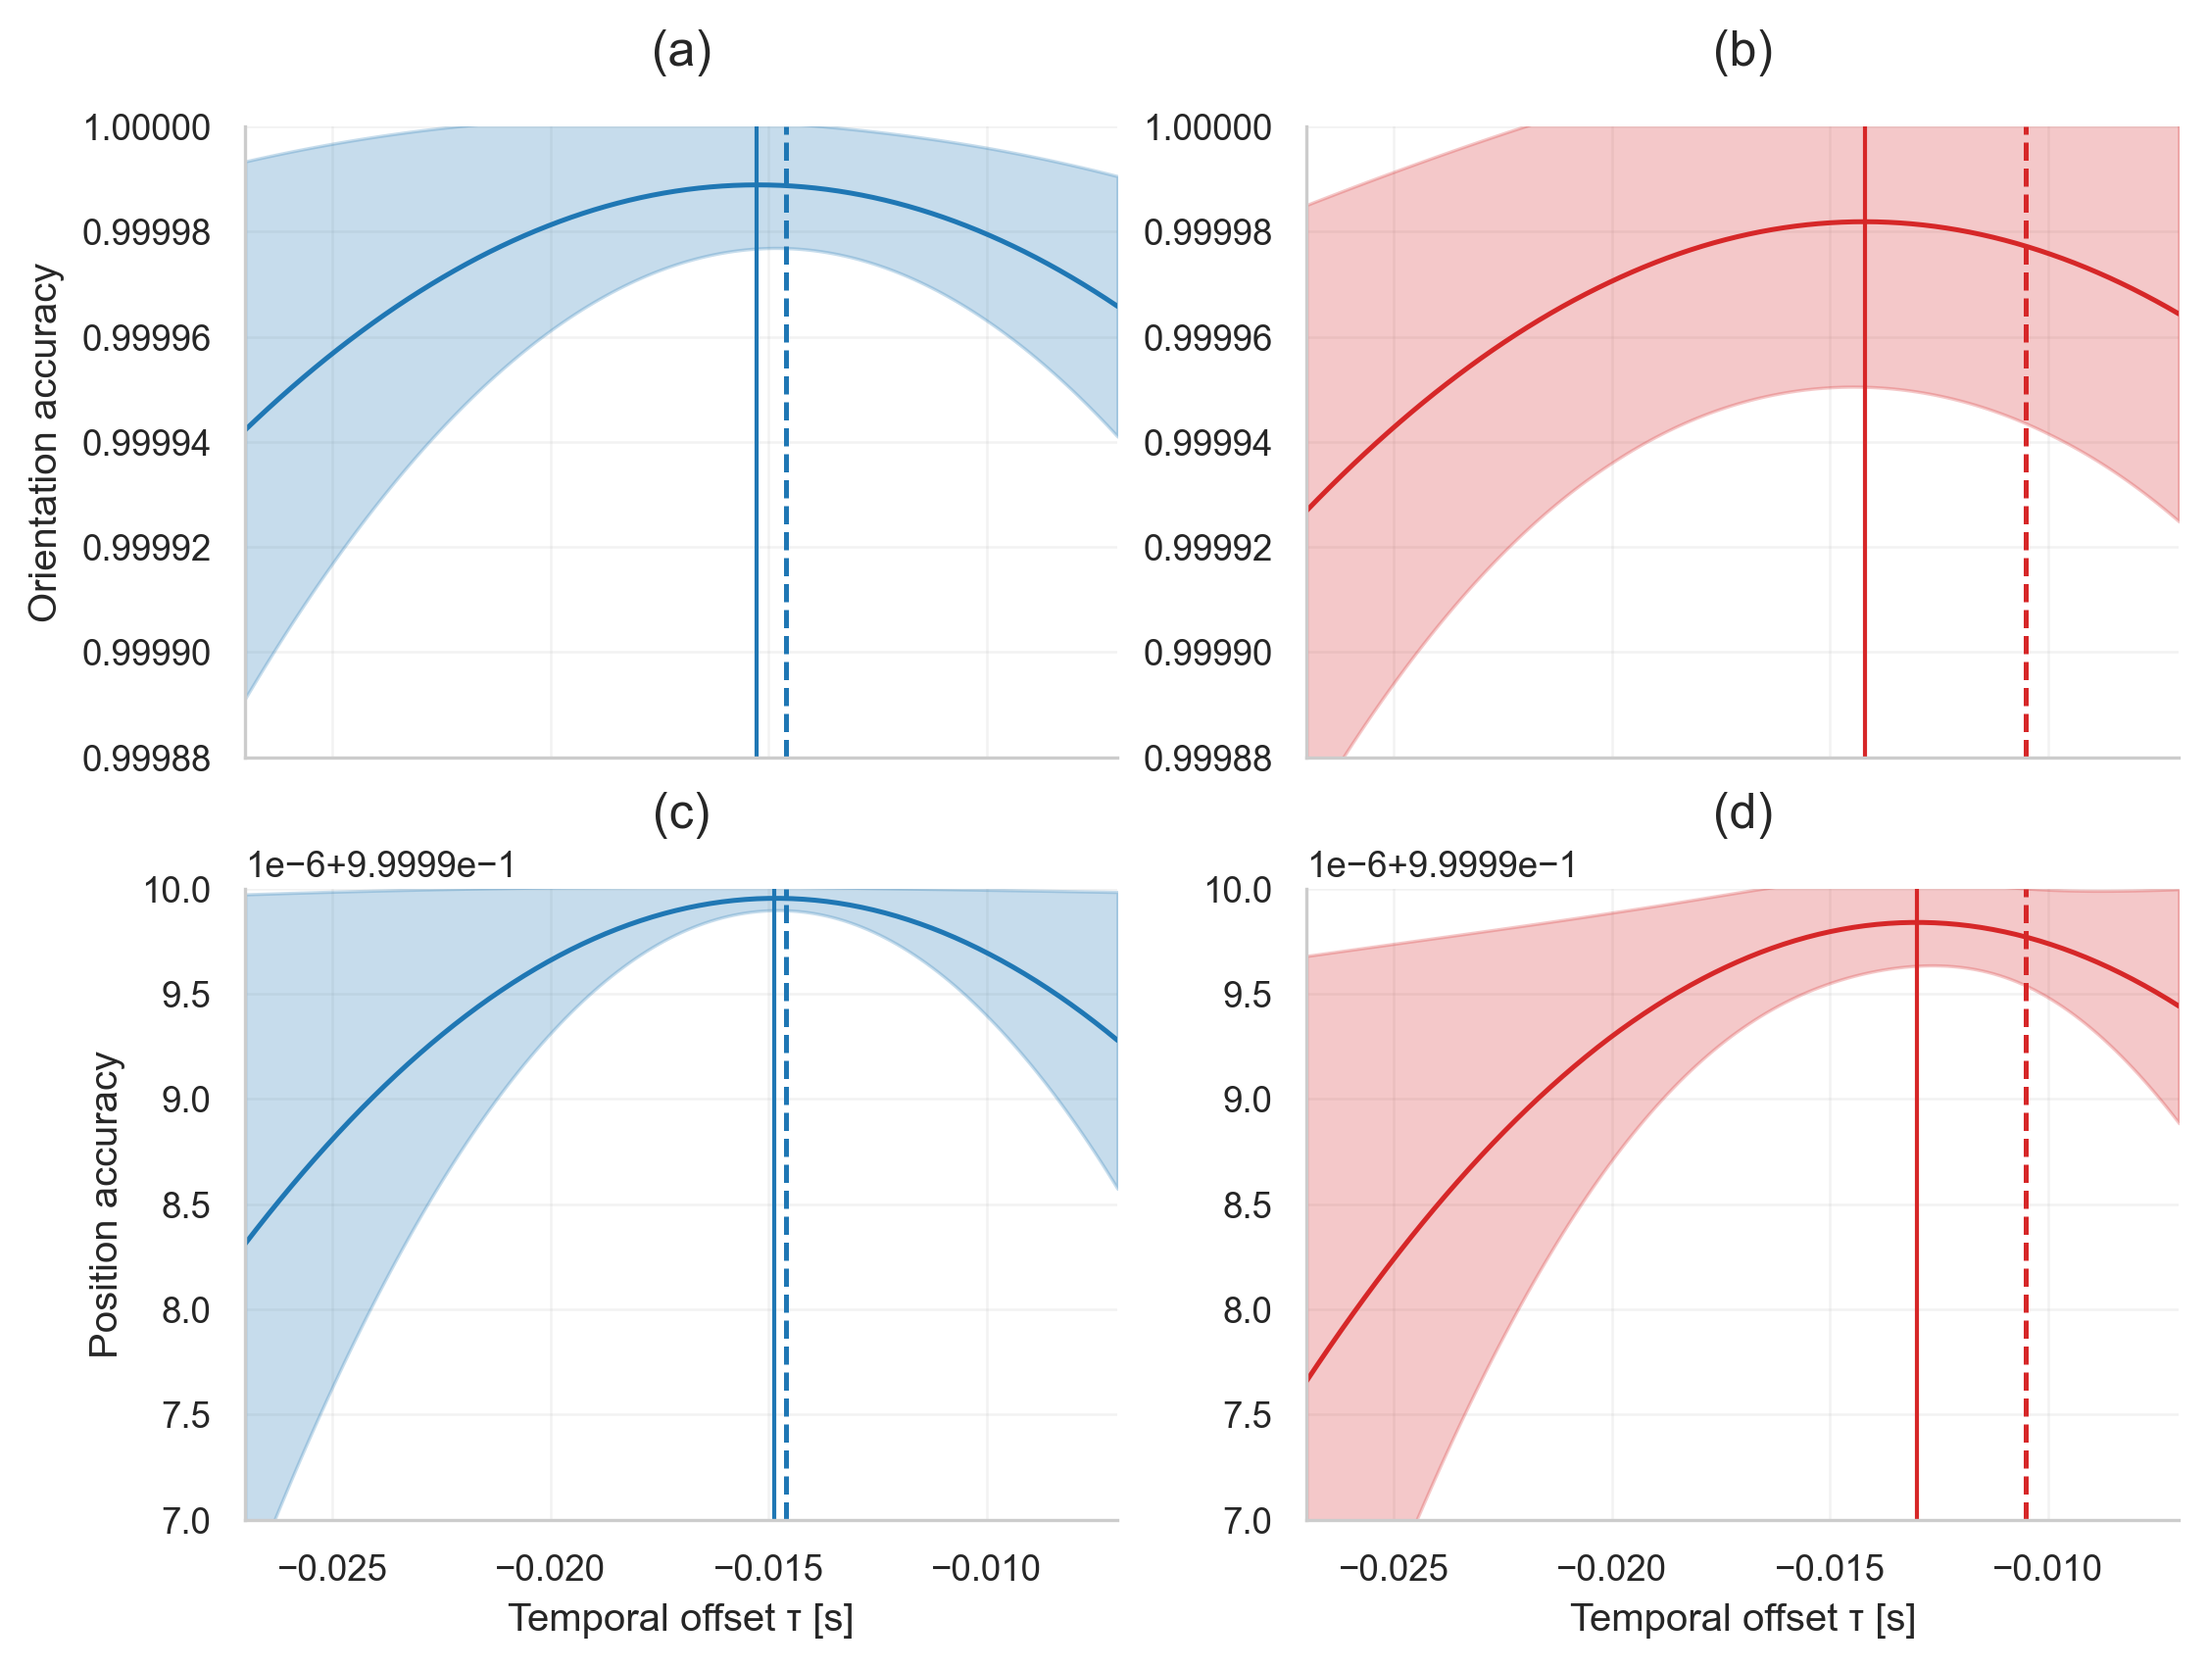
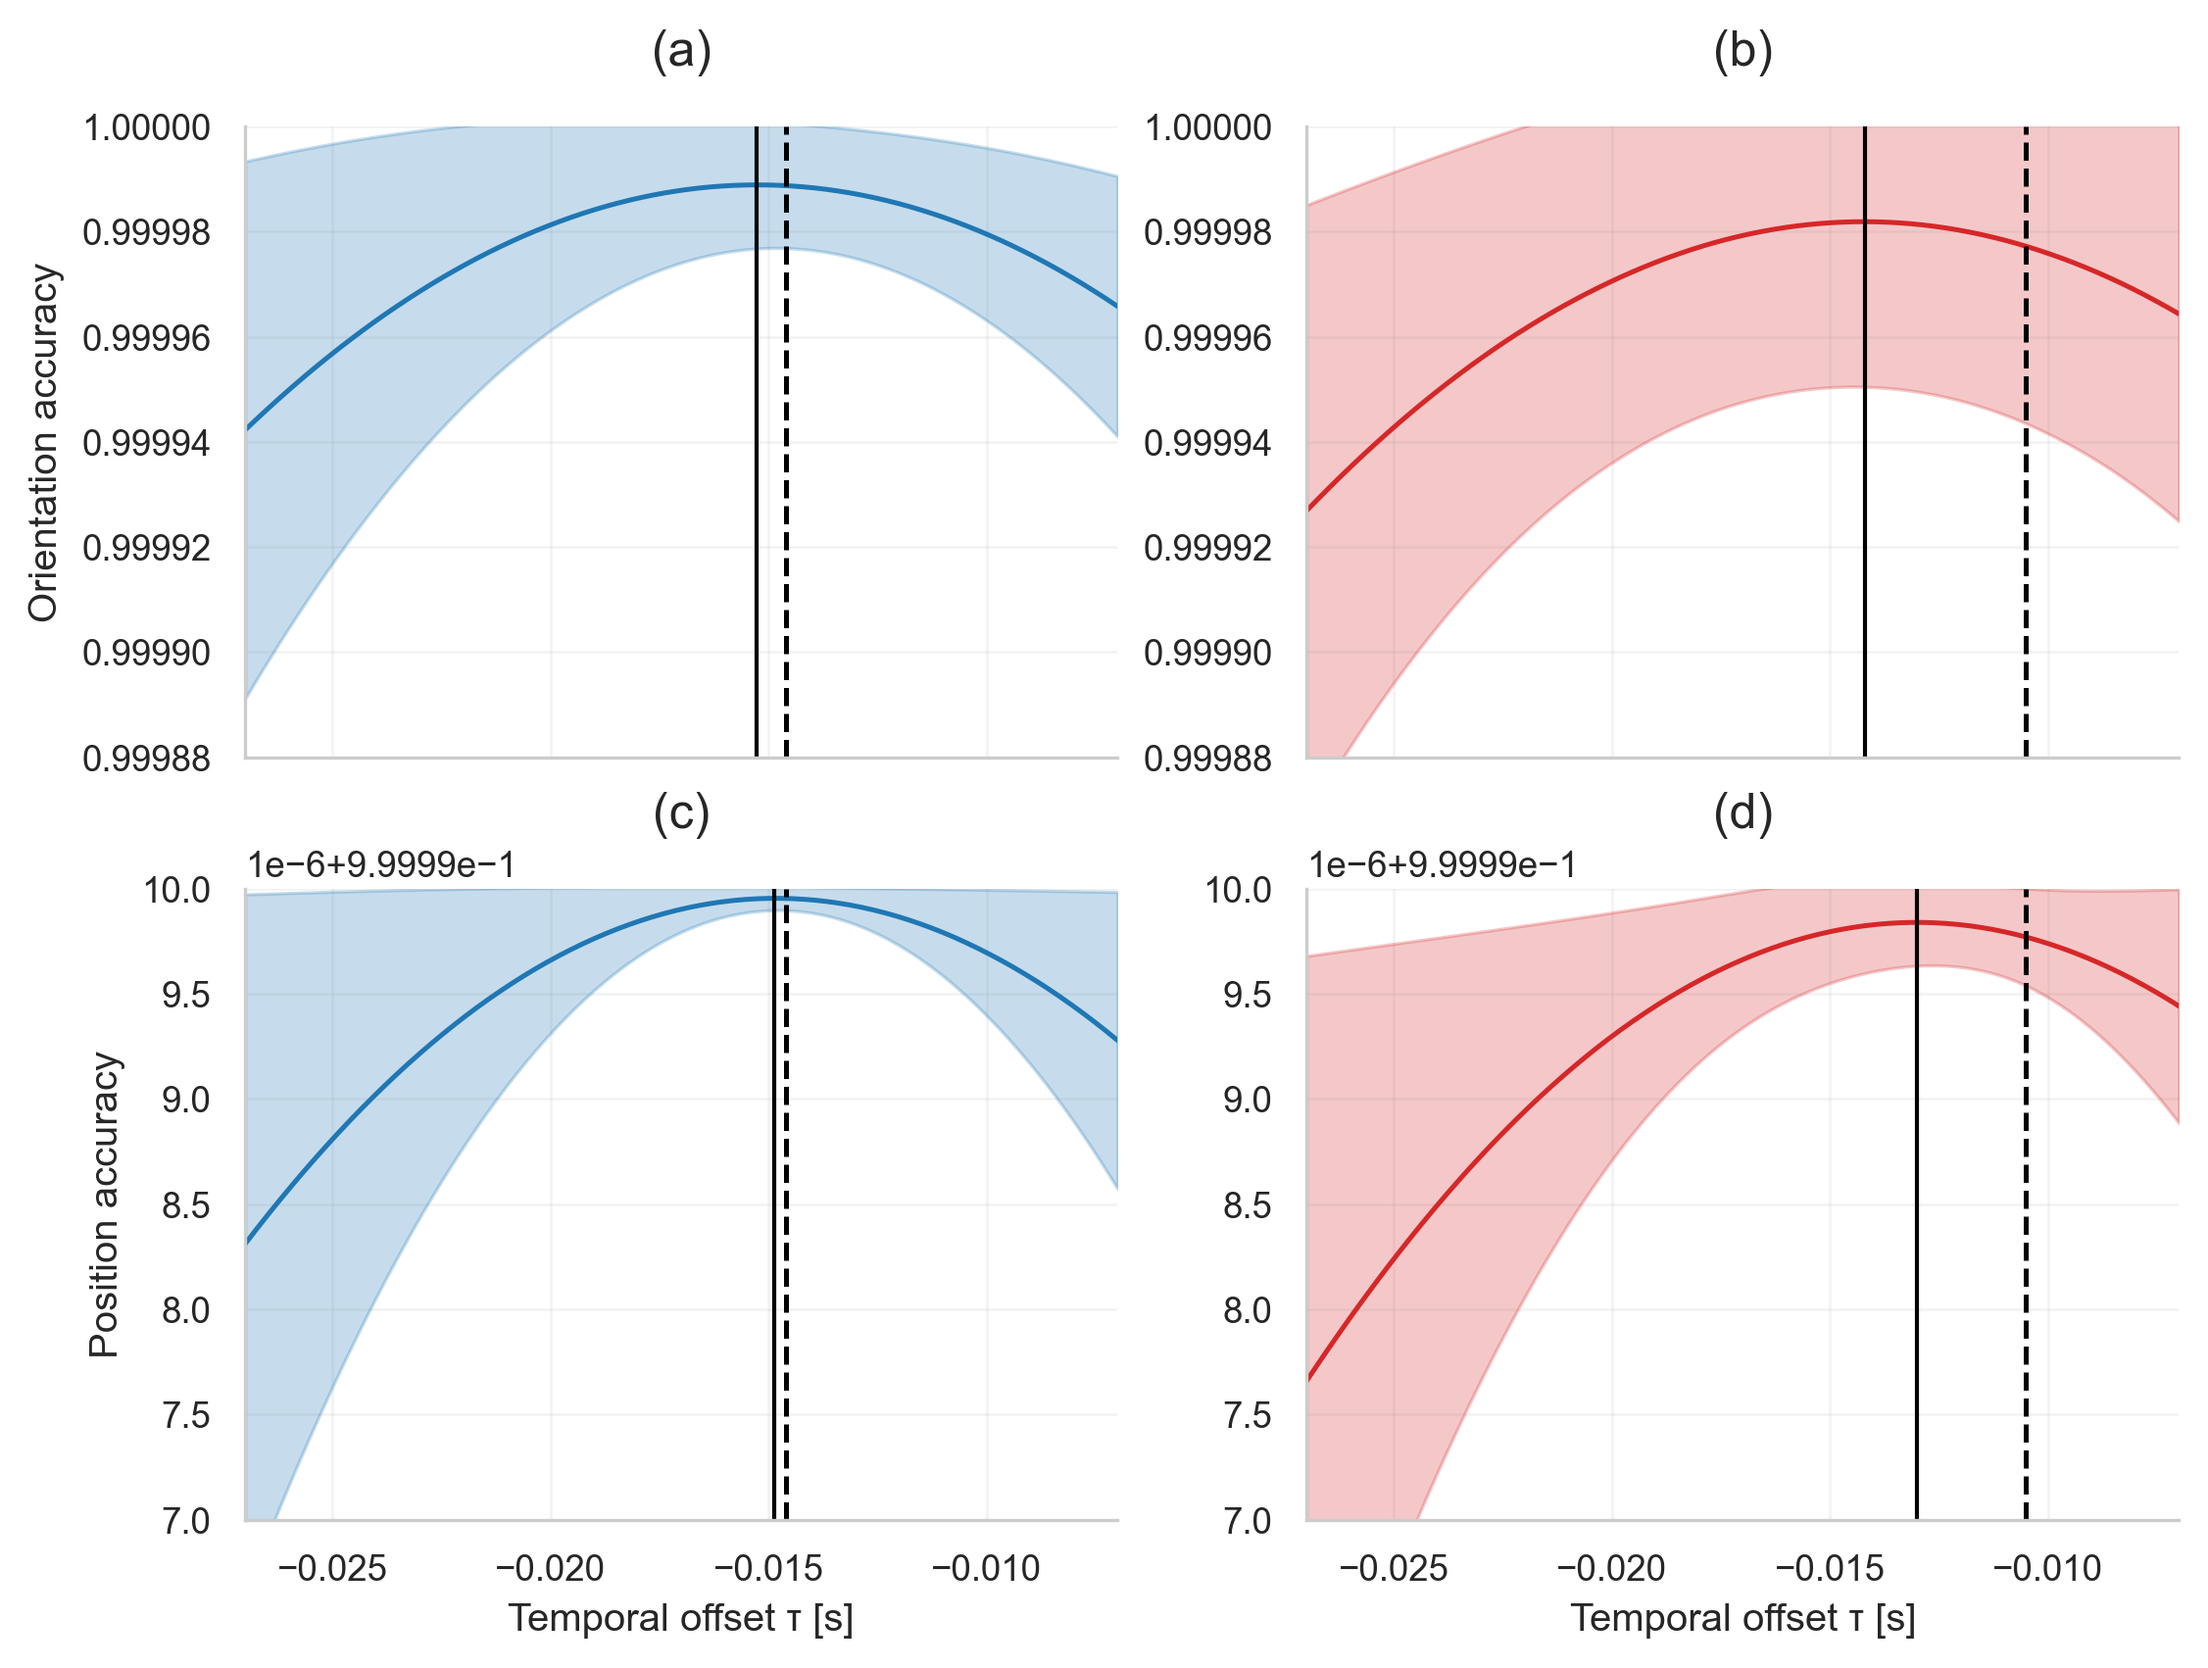
Sensitivity plot refinement

Changed region(s): [[0.3418, 0.5605, 0.3728, 0.9031], [0.3418, 0.0934, 0.3728, 0.436]]

diff --git a/src/plotting.py b/src/plotting.py
@@ -473,8 +473,8 @@ def plot_tau_shah_metrics_2x2(
     )
 
     if tau_stereo is not None:
-        ax.axvline(-tau_stereo, color="tab:blue", linewidth=1.2, linestyle="--")
-    ax.axvline(tau_ori_st_max, color="tab:blue", linewidth=1.0)
+        ax.axvline(-tau_stereo, color="black", linewidth=1.2, linestyle="--")
+    ax.axvline(tau_ori_st_max, color="black", linewidth=1.0)
 
     ax.set_ylabel("Orientation accuracy")
     ax.set_ylim(0.99988, 1.0)
@@ -497,8 +497,8 @@ def plot_tau_shah_metrics_2x2(
     )
 
     if tau_mono is not None:
-        ax.axvline(-tau_mono, color="tab:red", linewidth=1.2, linestyle="--")
-    ax.axvline(tau_ori_m_max, color="tab:red", linewidth=1.0)
+        ax.axvline(-tau_mono, color="black", linewidth=1.2, linestyle="--")
+    ax.axvline(tau_ori_m_max, color="black", linewidth=1.0)
 
     ax.set_ylim(0.99988, 1.0)
     ax.set_xlim(min(taus), max(taus))
@@ -520,8 +520,8 @@ def plot_tau_shah_metrics_2x2(
     )
 
     if tau_stereo is not None:
-        ax.axvline(-tau_stereo, color="tab:blue", linewidth=1.2, linestyle="--")
-    ax.axvline(tau_pos_st_max, color="tab:blue", linewidth=1.0)
+        ax.axvline(-tau_stereo, color="black", linewidth=1.2, linestyle="--")
+    ax.axvline(tau_pos_st_max, color="black", linewidth=1.0)
 
     ax.set_ylabel("Position accuracy")
     ax.set_ylim(0.999997, 1.0)
@@ -544,8 +544,8 @@ def plot_tau_shah_metrics_2x2(
     )
 
     if tau_mono is not None:
-        ax.axvline(-tau_mono, color="tab:red", linewidth=1.2, linestyle="--",)
-    ax.axvline(tau_pos_m_max, color="tab:red", linewidth=1.0)
+        ax.axvline(-tau_mono, color="black", linewidth=1.2, linestyle="--",)
+    ax.axvline(tau_pos_m_max, color="black", linewidth=1.0)
 
     ax.set_ylim(0.999997, 1.0)
     ax.set_xlim(min(taus), max(taus))
